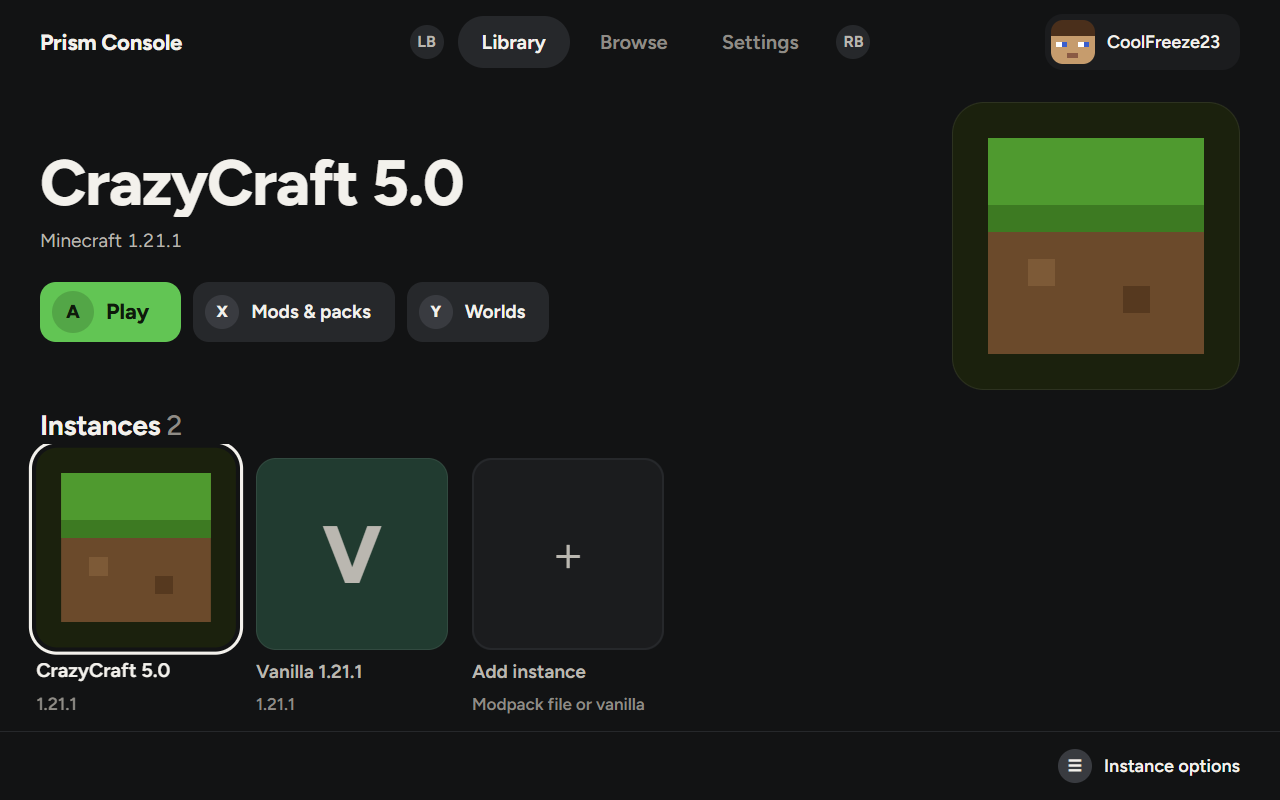
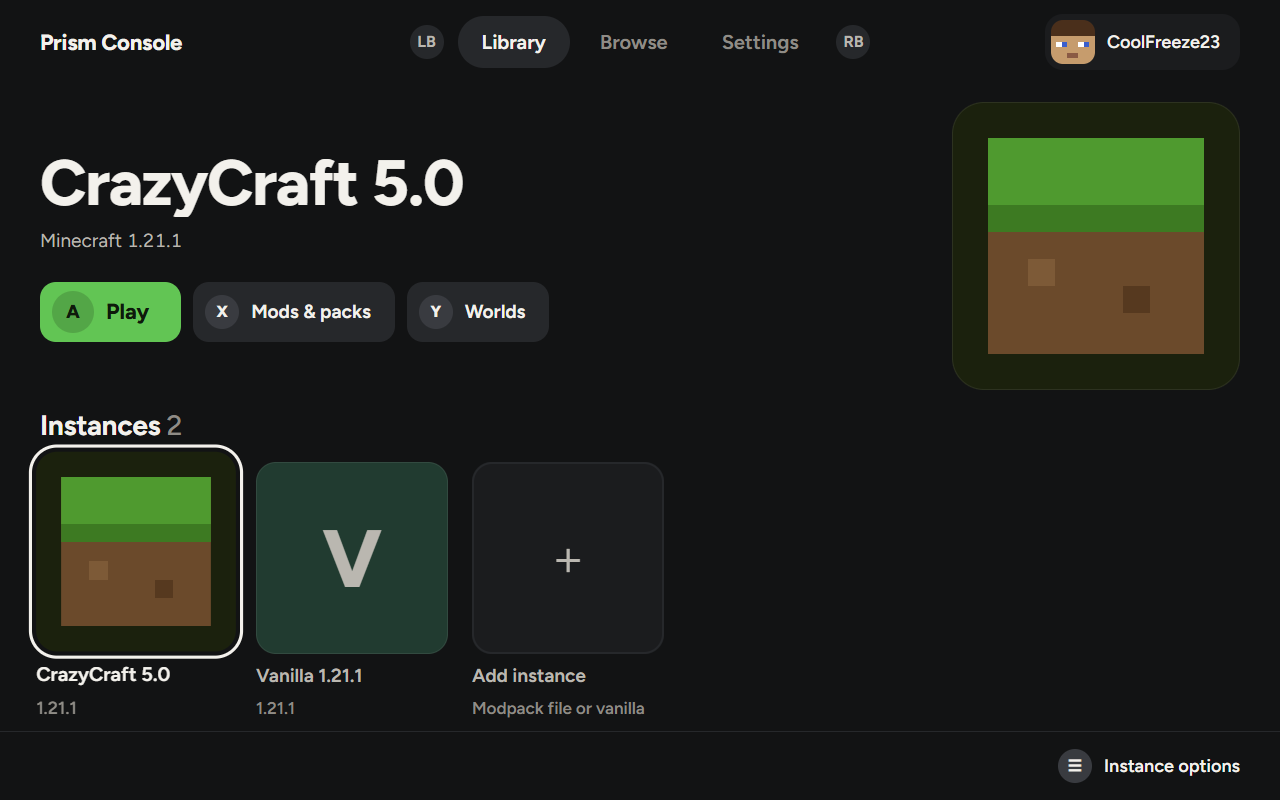
Shelf leaves room for the focused tile's ring
The row clips what sticks out of it, so the lifted tile's ring lost its
top edge under the heading.

diff --git a/console-ui/src/console.css b/console-ui/src/console.css
@@ -37,10 +37,11 @@ main { flex: 1; min-height: 0; overflow: auto; padding: 0 40px 24px; }
 .lib-hero.empty { height: 260px; }
 
 /* Shelf: the library, picked by moving along it. */
-.shelf { display: flex; flex-direction: column; gap: 16px; }
+.shelf { display: flex; flex-direction: column; gap: 20px; }
 .shelf h2 { margin: 0; font-size: 28px; }
 .shelf h2 span { color: var(--pc-text-3); font-weight: 500; }
-.shelf-row { display: flex; gap: 24px; overflow-x: auto; overflow-y: hidden; padding: 14px 12px 8px; margin: -14px -12px 0; scroll-padding: 0 40px; scrollbar-width: none; }
+/* The row clips what sticks out, so its padding holds the lifted tile and its ring (about 16 px above the art). */
+.shelf-row { display: flex; gap: 24px; overflow-x: auto; overflow-y: hidden; padding: 20px 12px 8px; margin: -20px -12px 0; scroll-padding: 0 40px; scrollbar-width: none; }
 .shelf-row::-webkit-scrollbar { display: none; }
 .instance-card { flex: none; width: 192px; min-height: 0; padding: 0; display: flex; flex-direction: column; align-items: stretch; gap: 10px; text-align: left; background: transparent; transition: transform 120ms ease-out; }
 .instance-card, .instance-card.selected, .instance-card:hover:not(:disabled), .instance-card[aria-pressed=true] { background: transparent; border: 0; box-shadow: none; }
